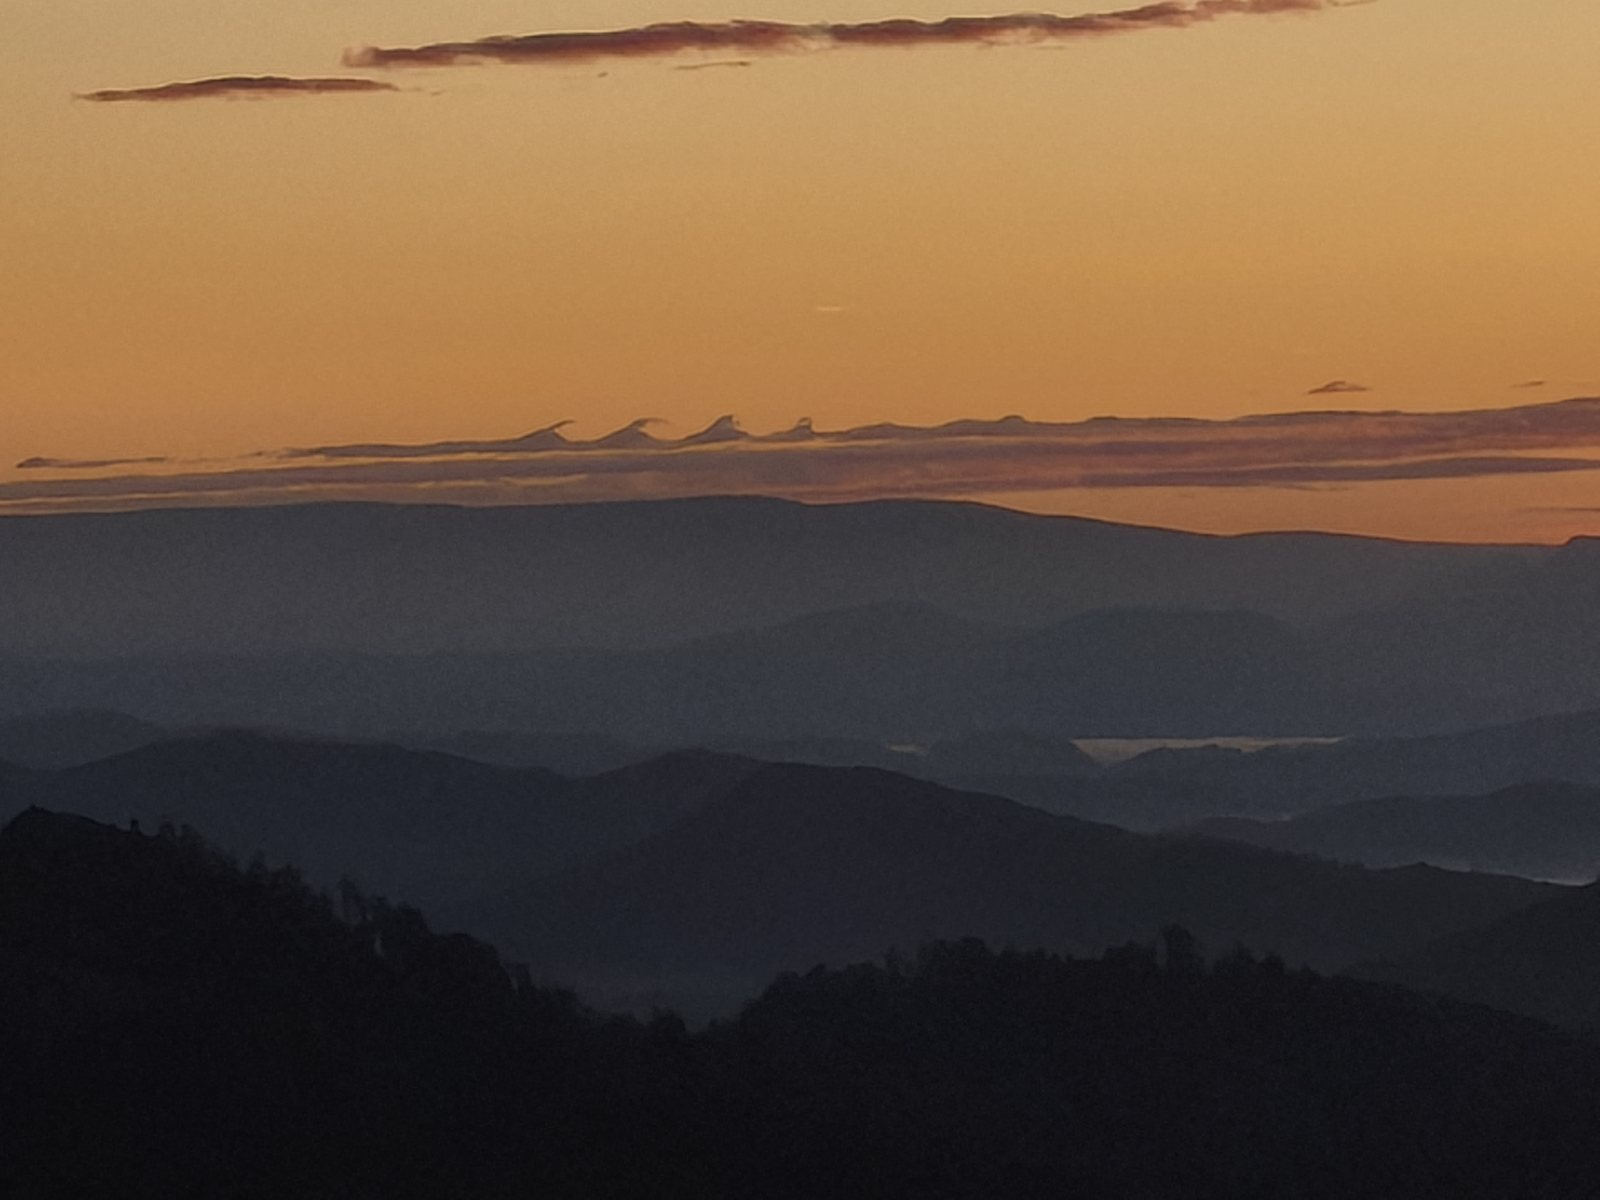
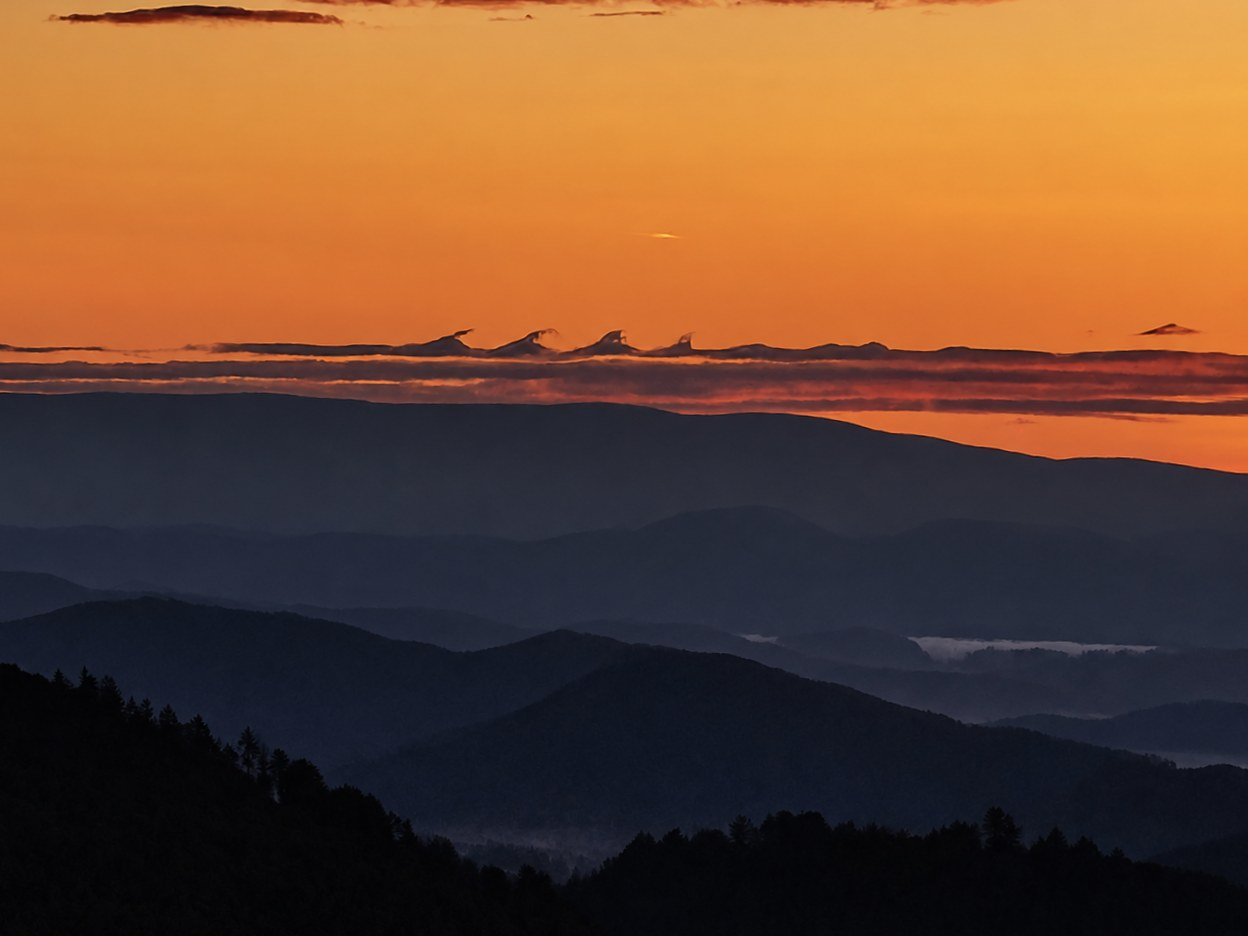
blog: Kelvin-Helmholtz — zamenjani fotografiji z obdelanima
Nova foto-1 (1248×936) in foto-2 (povečava, 646×485), OG slika
pregenerirana iz nove fotografije, dimenzije in opis druge slike popravljeni.

Claude-Session: https://claude.ai/code/session_01Vb18wz7A7CH39AMCsW7pJg

diff --git a/blog/kelvin-helmholtzovi-valovi-nad-crnivcem-0924.html b/blog/kelvin-helmholtzovi-valovi-nad-crnivcem-0924.html
@@ -136,15 +136,15 @@ height="0" width="0" style="display:none;visibility:hidden"></iframe></noscript>
     <h2 id="foto">Valovi, ki se lomijo v zraku</h2>
 
     <figure class="post-photo">
-      <img src="/img/blog/kelvin-helmholtzovi-valovi-nad-crnivcem-0924/foto-1.jpg" alt="Oranžno nebo ob zori nad plastmi modrikastih gorskih grebenov; na zgornjem robu dolge vodoravne plasti oblakov so štirje enako razmaknjeni grebeni, zavihani v desno kot lomeči se morski valovi. V dolinah spodaj leži megla." width="1600" height="1200" loading="lazy">
+      <img src="/img/blog/kelvin-helmholtzovi-valovi-nad-crnivcem-0924/foto-1.jpg" alt="Oranžno nebo ob zori nad plastmi modrikastih gorskih grebenov; na zgornjem robu dolge vodoravne plasti oblakov so štirje enako razmaknjeni grebeni, zavihani v desno kot lomeči se morski valovi. V dolinah spodaj leži megla." width="1248" height="936" loading="lazy">
       <figcaption>Pogled s Črnivca, 24. september 2026 ob 6.44. Na zgornjem robu dolge plasti oblakov nad obzorjem so štirje Kelvin-Helmholtzovi valovi, v dolinah spodaj megla. Posneto z močno povečavo, zato so valovi precej oddaljeni. Foto: Filip Eremita.</figcaption>
     </figure>
 
     <p>Na prvi pogled je na sliki samo dolga, tanka plast oblakov nad obzorjem, osvetljena od spodaj, ker je sonce še pod obzorjem. Pozornost pritegne njen zgornji rob. Na levi polovici se iz plasti dvigajo štirje grebeni, vsak se na vrhu prelomi in zavihne v desno, razmiki med njimi pa so skoraj enaki. Peti, na desni, je že skoraj izginil v plast.</p>
 
     <figure class="post-photo">
-      <img src="/img/blog/kelvin-helmholtzovi-valovi-nad-crnivcem-0924/foto-2.jpg" alt="Povečan izrez: štirje oblačni grebeni na robu plasti, vsak z zavihanim vrhom v desno, na oranžnem ozadju." width="1200" height="300" loading="lazy">
-      <figcaption>Izrez iz iste fotografije: zavihani vrhovi so značilnost, po kateri se ti oblaki ločijo od navadnih valovitih oblakov. Foto: Filip Eremita.</figcaption>
+      <img src="/img/blog/kelvin-helmholtzovi-valovi-nad-crnivcem-0924/foto-2.jpg" alt="Povečava: štirje oblačni grebeni na zgornjem robu plasti, vsak z zavihanim vrhom v desno, na oranžnem nebu nad temnim gorskim grebenom." width="646" height="485" loading="lazy">
+      <figcaption>Povečava istega prizora: zavihani vrhovi so značilnost, po kateri se ti oblaki ločijo od navadnih valovitih oblakov. Foto: Filip Eremita.</figcaption>
     </figure>
 
     <p>Prav zavihani vrh je ključen. Valovite oblake, ki so na nebu pogosti, poznamo kot vzporedne proge ali brazde (podvrsta <em>undulatus</em>, o kateri smo pisali avgusta ob <a href="/blog/altocumulus-undulatus-nad-recico-valovi-pred-fronto-0819.html" style="color:var(--blue)">altokumulusih nad Rečico</a>). Pri Kelvin-Helmholtzovih valovih pa se val ne samo dviga in spušča, temveč se prelomi. Svetovna meteorološka organizacija (WMO) jih zato od leta 2017 v Mednarodnem atlasu oblakov vodi kot posebno dopolnilno obliko z imenom <strong>fluctus</strong> (latinsko »val«). Ni samostojen rod oblaka: fluctus se lahko pojavi na altokumulusih, stratokumulusih, cirusih in še na nekaterih drugih. Iz ene same fotografije z velike razdalje rodu zanesljivo ne moremo določiti; po obliki in višini zraka, v katerem je tisto jutro pihal močan veter (glej spodaj), je najverjetneje šlo za oblak srednje višine.</p>
